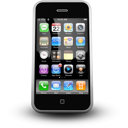
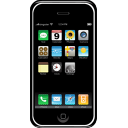
last improvements on competence page

diff --git a/public/css/screen.css b/public/css/screen.css
@@ -204,6 +204,7 @@ div#main div#content ul#competence ul li img {
   width: 100px;
   display: inline;
 }
+div#main div#content ul#competence ul li img#ipad { width: 160px; }
 div#main div#content article {
   margin-bottom: 1.5em;
   display: block;

diff --git a/public/css/screen.less b/public/css/screen.less
@@ -285,6 +285,10 @@ div#main {
             width: 100px;
             display: inline;
           }
+
+          img#ipad {
+            width: 160px;
+          }
         }
 
       }
